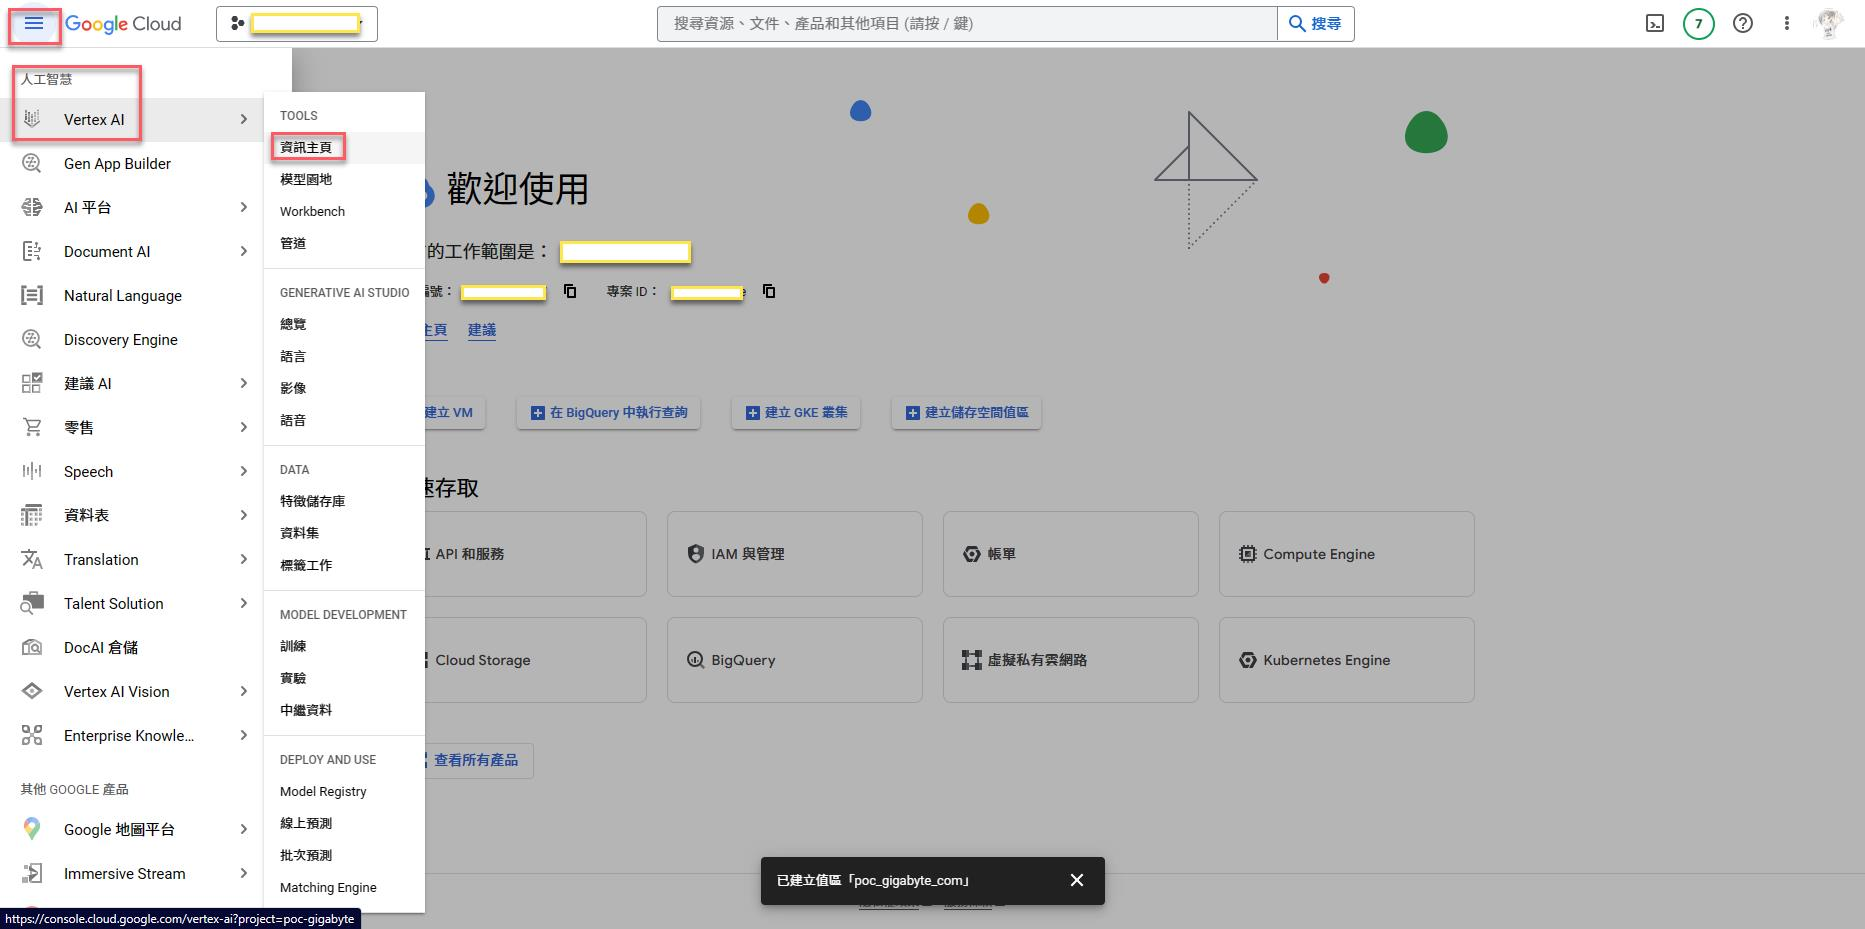
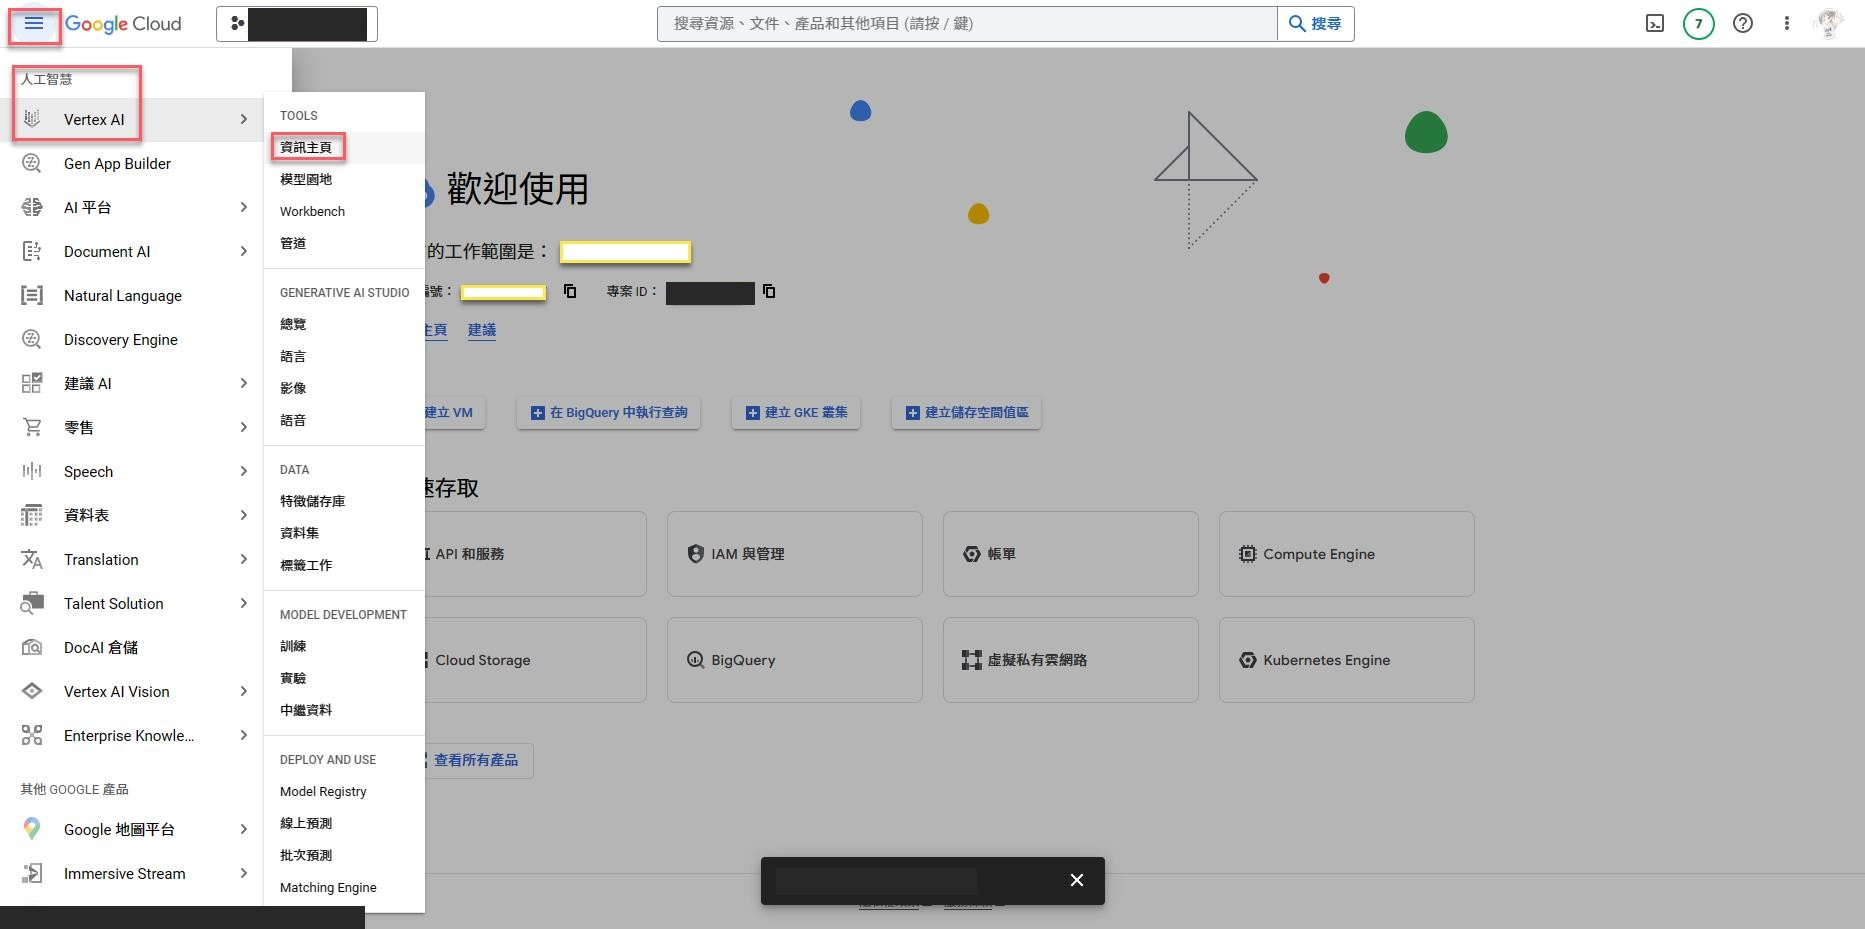
docs: re-mask imported screenshots and use a sample namespace

diff --git a/Writerside/topics/Unit-Test-Stream.md b/Writerside/topics/Unit-Test-Stream.md
@@ -32,7 +32,7 @@ stream.Write(Encoding.Default.GetBytes("Hello world."));
 using System.IO;
 using System.Text;
 using System.Threading.Tasks;
-using EuOrder.AzureStorage.Excertis;
+using Order.AzureStorage.Containers;
 using Shouldly;
 using Xunit;
 
